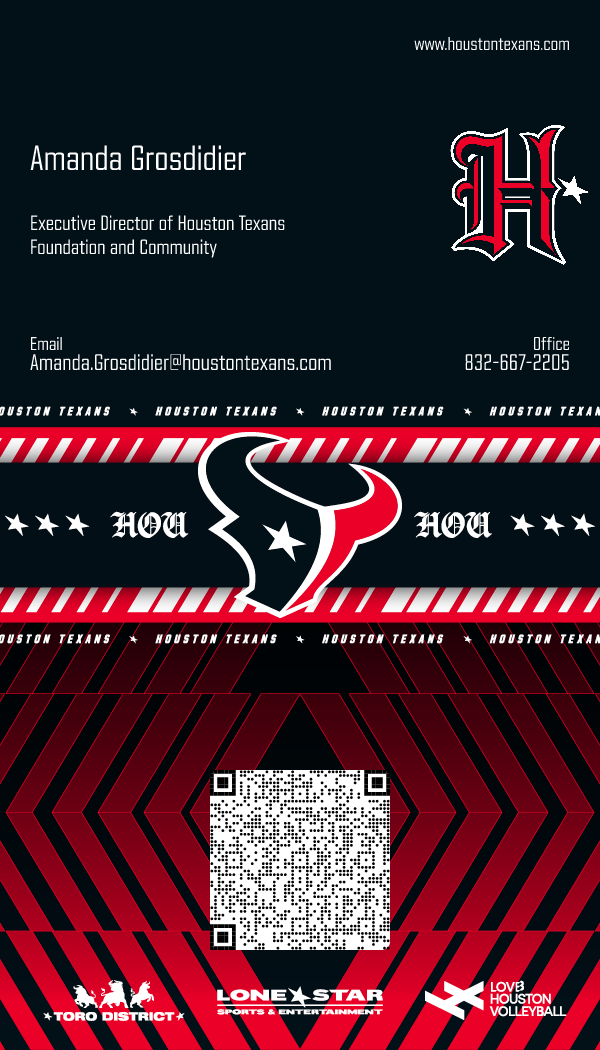
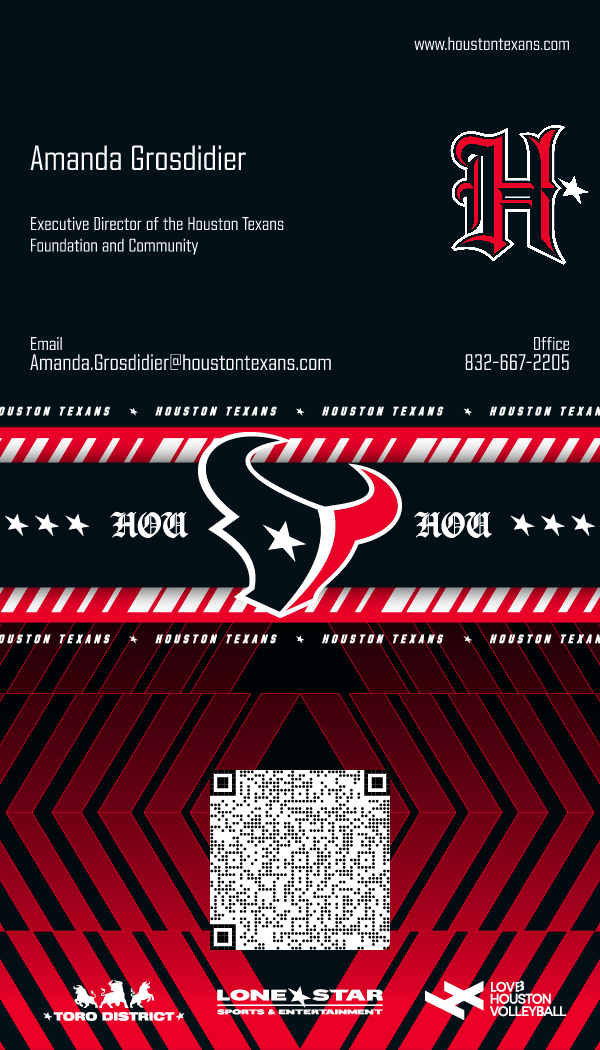
Regenerate card for Amanda Grosdidier

Changed region(s): [[0.03, 0.1829, 0.45, 0.2438]]

diff --git a/p/d85c6ba7.html b/p/d85c6ba7.html
@@ -4,9 +4,9 @@
   <meta charset="UTF-8">
   <meta name="viewport" content="width=device-width, initial-scale=1.0">
   <title>Amanda Grosdidier — Houston Texans</title>
-  <meta name="description" content="Contact Amanda Grosdidier, Executive Director of Houston Texans Foundation and Community at Houston Texans">
+  <meta name="description" content="Contact Amanda Grosdidier, Executive Director of the Houston Texans Foundation and Community at Houston Texans">
   <meta property="og:title" content="Amanda Grosdidier — Houston Texans">
-  <meta property="og:description" content="Executive Director of Houston Texans Foundation and Community">
+  <meta property="og:description" content="Executive Director of the Houston Texans Foundation and Community">
   <link rel="preconnect" href="https://fonts.googleapis.com">
   <link href="https://fonts.googleapis.com/css2?family=Inter:wght@400;500;600;700&display=swap" rel="stylesheet">
   <!-- GA4 -->
@@ -60,7 +60,7 @@
   <div class="hero">
     <div class="hero-img"><img src="https://raw.githubusercontent.com/TexansDigital/texans-business-cards/main/Houston%20Texans%20Logo%20RGB_BULLHEAD%20FC.png" alt="" style="height:64px;object-fit:contain;"></div>
     <h1>Amanda Grosdidier</h1>
-    <p class="sub">Executive Director of Houston Texans Foundation and Community</p>
+    <p class="sub">Executive Director of the Houston Texans Foundation and Community</p>
     <span class="org">Houston Texans</span>
   </div>
   <div class="ct">
@@ -97,7 +97,7 @@
   <script>
   function saveContact(){
     tr('save_contact');
[2 lines of base64/hex data omitted]
     var b=new Blob([vc],{type:'text/vcard;charset=utf-8'});
     var u=URL.createObjectURL(b);
     var a=document.createElement('a');
